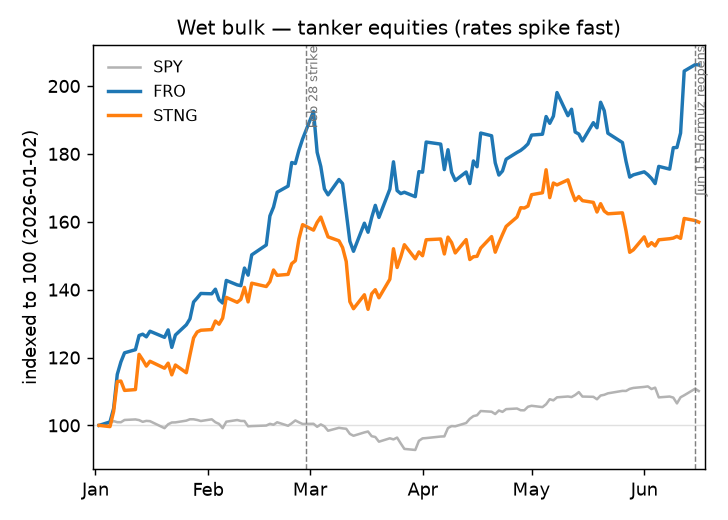
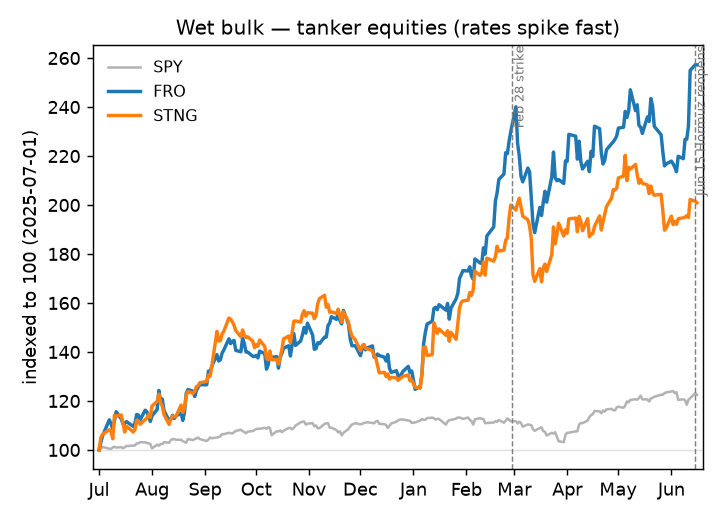
README: extend shipping plots to mid-2025 baseline (honest framing)
Push the window back ~6 months. The data shows the "baseline" is NOT flat --
shipping was already rallying through 2025 -- so the caption now says so plainly:
the Iran war accelerated an existing uptrend (tankers first, dry-bulk a hop later)
rather than spiking off a flat line. Index base-date in the y-label is now dynamic.

diff --git a/scripts/plot_shipping.py b/scripts/plot_shipping.py
@@ -18,7 +18,7 @@ import yfinance as yf
 
 ROOT = Path(__file__).resolve().parent.parent
 ASSETS = ROOT / "assets"
-START, END = "2026-01-01", "2026-06-17"
+START, END = "2025-07-01", "2026-06-17"   # ~6mo of pre-event baseline before the Jan-2026 buildup
 WET = ["FRO", "STNG"]   # tanker equities (Frontline, Scorpio Tankers)
 DRY = ["SBLK", "GNK"]   # dry-bulk carriers (Star Bulk, Genco)
 EVENTS = {"2026-02-28": "Feb 28 strike", "2026-06-15": "Jun 15 Hormuz reopens"}
@@ -36,7 +36,7 @@ def panel(ax, tickers, prices, title):
         ax.text(x, top, " " + lbl, rotation=90, va="top", ha="left", fontsize=7, color="0.45")
     ax.axhline(100, color="0.88", lw=0.8, zorder=0)
     ax.set_title(title, fontsize=11)
-    ax.set_ylabel("indexed to 100 (2026-01-02)")
+    ax.set_ylabel(f"indexed to 100 ({idx.index[0].date()})")
     ax.legend(frameon=False, fontsize=9, loc="upper left")
     ax.xaxis.set_major_formatter(mdates.DateFormatter("%b"))
     ax.margins(x=0.01)